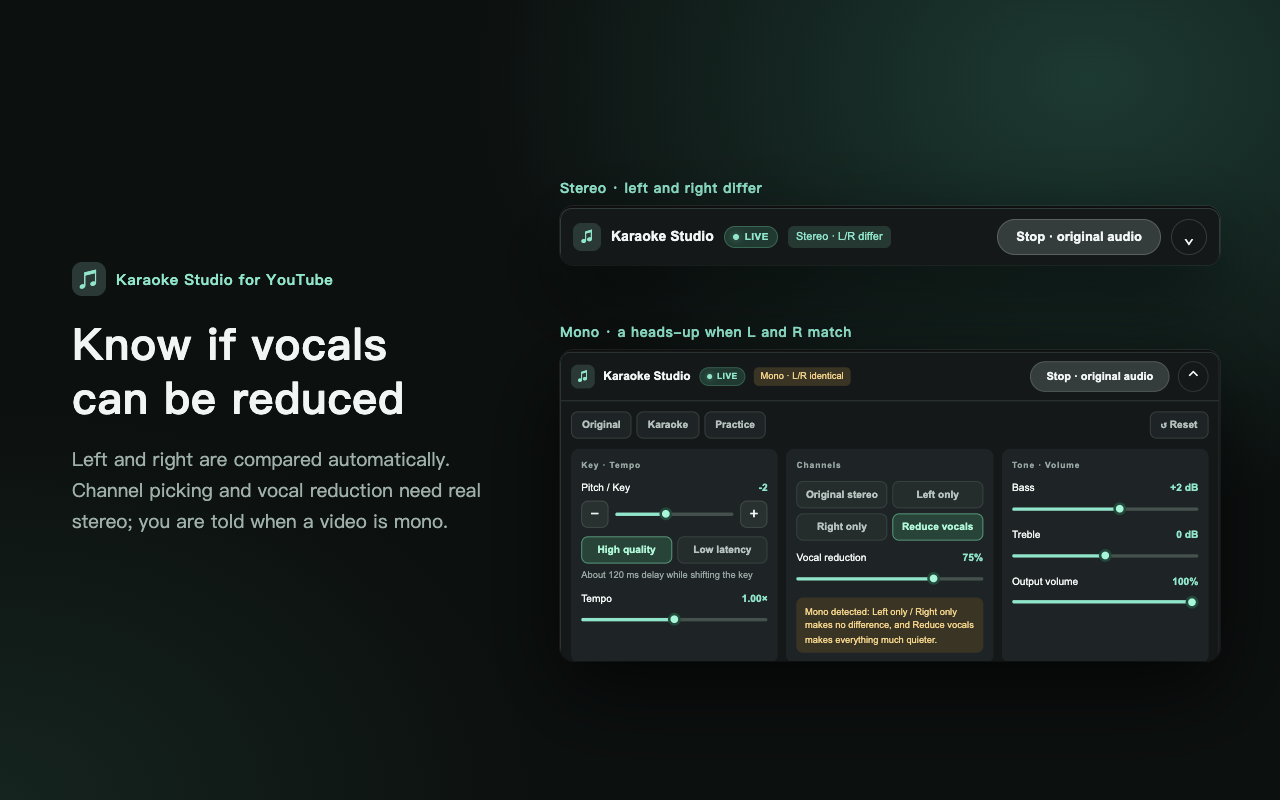
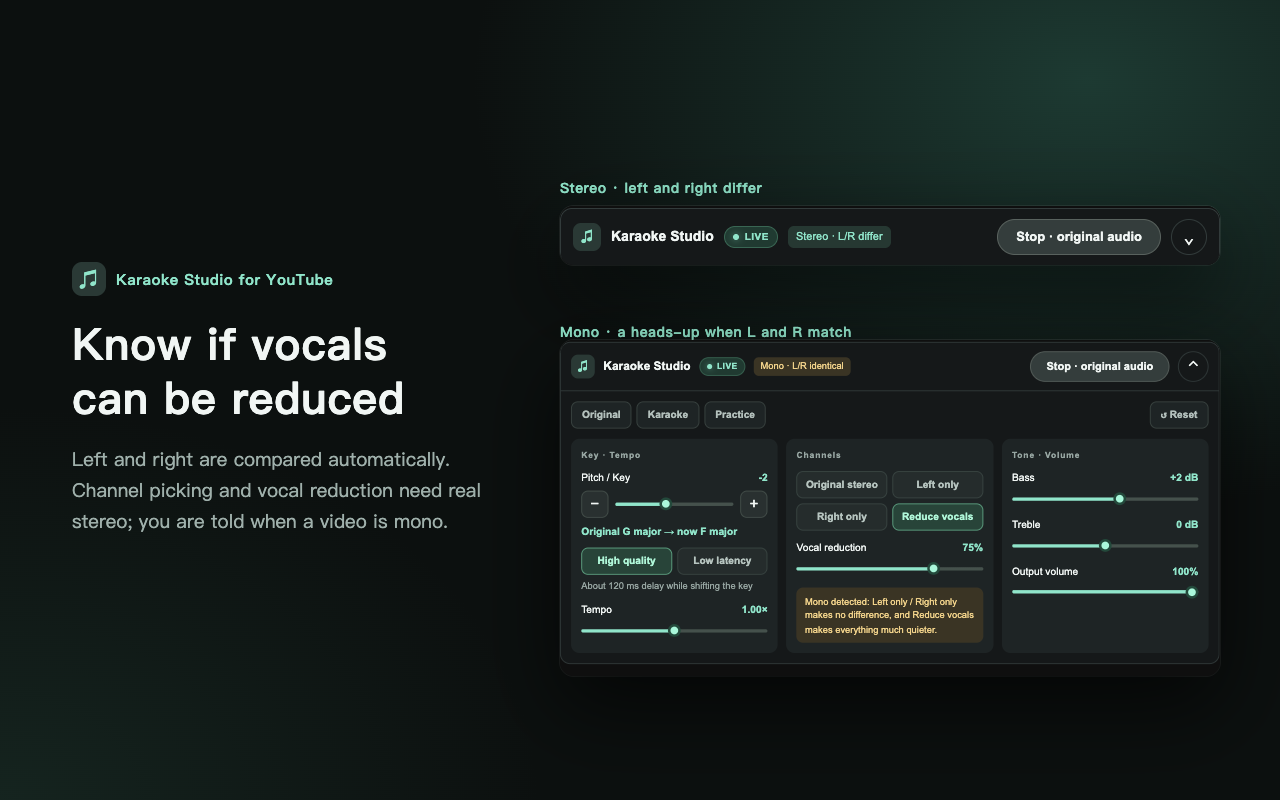
Show the detected song key next to the pitch shift
The key is estimated from the unshifted source with a decaying pitch-class
profile matched against Krumhansl-Kessler major/minor templates; the shifted
key is derived from it, so it follows the pitch control instantly. The
semitone number stays; the key line sits under it in the popup and panel.

diff --git a/extension/offscreen.js b/extension/offscreen.js
@@ -6,6 +6,7 @@ async function stopSession() {
   const old = session;
   session = null;
   clearInterval(old.channelTimer);
+  clearInterval(old.keyTimer);
   try { old.stream.getTracks().forEach(t => t.stop()); } catch {}
   try { await old.context.close(); } catch {}
 }
@@ -131,6 +132,86 @@ function monitorChannels(s) {
   }, 250);
 }
 
+// Krumhansl-Kessler key profiles for C major and C minor; other tonics are rotations.
+const KEY_PROFILES = {
+  major: [6.35, 2.23, 3.48, 2.33, 4.38, 4.09, 2.52, 5.19, 2.39, 3.66, 2.29, 2.88],
+  minor: [6.33, 2.68, 3.52, 5.38, 2.60, 3.53, 2.54, 4.75, 3.98, 2.69, 3.34, 3.17]
+};
+// Below 80 Hz a 16384-point FFT cannot separate semitones; above 2 kHz harmonics dominate.
+const KEY_RANGE = { low: 80, high: 2000 };
+const KEY_POLL_MS = 500;
+const KEY_DECAY = 0.5 ** (KEY_POLL_MS / 30000); // older audio fades with a 30 s half-life
+const KEY_MIN_FRAMES = 20;  // ~10 s of sound before the first answer
+const KEY_STABLE_FRAMES = 4; // a new answer must hold for ~2 s
+
+/** Add one dB spectrum frame to a 12-bin pitch-class profile; returns the energy added. */
+function addChroma(chroma, db, sampleRate, fftSize) {
+  const hz = sampleRate / fftSize;
+  let added = 0;
+  const last = Math.min(db.length - 1, Math.floor(KEY_RANGE.high / hz));
+  for (let bin = Math.ceil(KEY_RANGE.low / hz); bin <= last; bin++) {
+    const amplitude = 10 ** (db[bin] / 20);
+    if (!(amplitude > 1e-4)) continue; // below -80 dB, or -Infinity before audio arrives
+    const midi = Math.round(69 + 12 * Math.log2(bin * hz / 440));
+    chroma[((midi % 12) + 12) % 12] += amplitude;
+    added += amplitude;
+  }
+  return added;
+}
+
+function correlation(a, b) {
+  const n = a.length;
+  const ma = a.reduce((x, y) => x + y, 0) / n;
+  const mb = b.reduce((x, y) => x + y, 0) / n;
+  let ab = 0, aa = 0, bb = 0;
+  for (let i = 0; i < n; i++) {
+    ab += (a[i] - ma) * (b[i] - mb);
+    aa += (a[i] - ma) ** 2;
+    bb += (b[i] - mb) ** 2;
+  }
+  return ab / Math.sqrt(aa * bb);
+}
+
+/** Best-matching key as { tonic: 0-11 (C = 0), mode }, or null when there is no sound. */
+function classifyKey(chroma) {
+  if (!chroma.some(v => v > 0)) return null;
+  let best = null;
+  for (const [mode, profile] of Object.entries(KEY_PROFILES)) {
+    for (let tonic = 0; tonic < 12; tonic++) {
+      const score = correlation(Array.from(chroma), profile.map((_, i) => profile[(i - tonic + 12) % 12]));
+      if (!best || score > best.score) best = { tonic, mode, score };
+    }
+  }
+  return { tonic: best.tonic, mode: best.mode };
+}
+
+// Estimate the song's key from the unprocessed source; shifted keys are derived from it.
+function monitorKey(s) {
+  const analyser = s.context.createAnalyser();
+  analyser.fftSize = 16384;
+  analyser.smoothingTimeConstant = 0;
+  s.input.connect(analyser);
+  const db = new Float32Array(analyser.frequencyBinCount);
+  const chroma = new Float64Array(12);
+  let frames = 0, candidate = null, streak = 0;
+  s.key = null;
+  s.keyTimer = setInterval(() => {
+    analyser.getFloatFrequencyData(db);
+    for (let i = 0; i < 12; i++) chroma[i] *= KEY_DECAY;
+    if (addChroma(chroma, db, s.context.sampleRate, analyser.fftSize) > 0) frames++;
+    if (frames < KEY_MIN_FRAMES) return;
+    const key = classifyKey(chroma);
+    if (!key) return;
+    const same = candidate && key.tonic === candidate.tonic && key.mode === candidate.mode;
+    candidate = key;
+    streak = same ? streak + 1 : 1;
+    if (streak < KEY_STABLE_FRAMES || session !== s) return;
+    if (s.key && s.key.tonic === key.tonic && s.key.mode === key.mode) return;
+    s.key = key;
+    chrome.runtime.sendMessage({ target: 'background', type: 'KEY_INFO', tabId: s.tabId, key }).catch(() => {});
+  }, KEY_POLL_MS);
+}
+
 function applySettings(s, settings) {
   s.settings = settings;
   const t = s.context.currentTime;
@@ -200,7 +281,8 @@ async function startSession(message) {
     await context.resume();
     // Detection is informational; never let it take the audio path down.
     try { monitorChannels(next); } catch (error) { console.error('Channel detection unavailable', error); }
-    return { active: true, tabId: next.tabId, layout: next.layout };
+    try { monitorKey(next); } catch (error) { console.error('Key detection unavailable', error); }
+    return { active: true, tabId: next.tabId, layout: next.layout, key: next.key };
   } catch (error) {
     if (stream) stream.getTracks().forEach(t => t.stop());
     if (context && context.state !== 'closed') await context.close();
@@ -214,7 +296,7 @@ chrome.runtime.onMessage.addListener((message, sender, sendResponse) => {
   if (sender.tab || sender.url !== chrome.runtime.getURL('background.js')) return false;
   (async () => {
     switch (message.type) {
-      case 'STATUS': return session ? { active: true, tabId: session.tabId, layout: session.layout } : { active: false };
+      case 'STATUS': return session ? { active: true, tabId: session.tabId, layout: session.layout, key: session.key } : { active: false };
       case 'STOP': await stopSession(); return { active: false };
       case 'START': return startSession(message);
       case 'UPDATE':

diff --git a/test-key.js b/test-key.js
@@ -1,0 +1,71 @@
+/** Musical key detection and labelling checks, runnable with `node test-key.js`. */
+const assert = require('node:assert/strict');
+const vm = require('node:vm');
+const fs = require('node:fs');
+const path = require('node:path');
+const extension = path.join(__dirname, 'extension');
+
+const sandbox = { chrome: { runtime: { onMessage: { addListener() {} } } }, navigator: {}, AudioContext: function () {}, setInterval, clearInterval };
+vm.createContext(sandbox);
+vm.runInContext(fs.readFileSync(path.join(extension, 'offscreen.js'), 'utf8') +
+  '\nglobalThis.api = { classifyKey, addChroma };', sandbox);
+const { classifyKey, addChroma } = sandbox.api;
+
+const SR = 48000, FFT = 16384;
+const NOTE = { C: 0, 'C#': 1, D: 2, Eb: 3, E: 4, F: 5, 'F#': 6, G: 7, Ab: 8, A: 9, Bb: 10, B: 11 };
+const midiHz = m => 440 * 2 ** ((m - 69) / 12);
+// A dB spectrum (like AnalyserNode.getFloatFrequencyData) of tones with harmonics 1-5 at 1/n level.
+function spectrum(midiNotes) {
+  const db = new Float32Array(FFT / 2).fill(-120);
+  for (const m of midiNotes) {
+    for (let n = 1; n <= 5; n++) {
+      const bin = Math.round(midiHz(m) * n * FFT / SR);
+      if (bin < db.length) db[bin] = Math.max(db[bin], 20 * Math.log10(0.5 / n));
+    }
+  }
+  return db;
+}
+// Chords (MIDI notes) of a progression, played in equal measure.
+const triad = (root, minor = false) => [root, root + (minor ? 3 : 4), root + 7];
+function chromaOf(progression) {
+  const chroma = new Float64Array(12);
+  for (const chord of progression) addChroma(chroma, spectrum(chord), SR, FFT);
+  return chroma;
+}
+const keyOf = progression => { const k = classifyKey(chromaOf(progression)); return k && `${k.tonic}:${k.mode}`; };
+
+// I-V-vi-IV in G major, with the bass note an octave down.
+const G = 55;
+const gMajor = [triad(G), triad(G + 7 - 12), triad(G + 9 - 12, true), triad(G + 5)].map(c => [...c, c[0] - 12]);
+assert.equal(keyOf(gMajor), `${NOTE.G}:major`, 'I-V-vi-IV in G is G major');
+// The same progression moved to D and E-flat.
+for (const name of ['D', 'Eb']) {
+  const shifted = gMajor.map(c => c.map(m => m + NOTE[name] - NOTE.G));
+  assert.equal(keyOf(shifted), `${NOTE[name]}:major`, `transposed progression is ${name} major`);
+}
+// i-iv-V-i in A minor (harmonic minor: E major chord with G#).
+const A = 57;
+const aMinor = [triad(A, true), triad(A + 5, true), triad(A + 7 - 12), triad(A, true)].map(c => [...c, c[0] - 12]);
+assert.equal(keyOf(aMinor), `${NOTE.A}:minor`, 'i-iv-V-i in A is A minor');
+// Silence gives no answer instead of a guess.
+assert.equal(classifyKey(new Float64Array(12)), null, 'no key without sound');
+// Frames that are silent add nothing.
+const quiet = new Float64Array(12);
+addChroma(quiet, new Float32Array(FFT / 2).fill(-120), SR, FFT);
+assert.ok(quiet.every(v => v === 0), 'a silent frame adds no chroma');
+
+// Labels: the shifted key is the original key plus the pitch shift.
+const shared = { chrome: { i18n: {
+  getUILanguage: () => 'en',
+  getMessage: (key, subs) => ({ keyMajor: `${subs[0]} major`, keyMinor: `${subs[0]} minor` })[key] || key
+} } };
+vm.createContext(shared);
+vm.runInContext(fs.readFileSync(path.join(extension, 'shared.js'), 'utf8') + '\nglobalThis.keyName = keyName;', shared);
+const { keyName } = shared;
+assert.equal(keyName({ tonic: NOTE.G, mode: 'major' }, 0), 'G major');
+assert.equal(keyName({ tonic: NOTE.G, mode: 'major' }, 2), 'A major', 'G major +2 is A major');
+assert.equal(keyName({ tonic: NOTE.C, mode: 'major' }, -1), 'B major', 'shifts wrap around the octave');
+assert.equal(keyName({ tonic: NOTE.D, mode: 'major' }, -1), 'D♭ major', 'major keys use conventional flats');
+assert.equal(keyName({ tonic: NOTE.E, mode: 'minor' }, -3), 'C♯ minor', 'minor keys use conventional sharps');
+assert.equal(keyName({ tonic: NOTE.A, mode: 'minor' }, 12), 'A minor', 'an octave shift keeps the key');
+console.log('PASS: key from chord spectra (major, minor, transposed), silence, shifted key names');

diff --git a/extension/panel.js b/extension/panel.js
@@ -8,6 +8,7 @@
   let live = false;       // this tab is being processed
   let elsewhere = false;  // another tab is being processed
   let layout = null;
+  let key = null;         // { tonic, mode } of the unshifted source, null while detecting
   let shortcut = '';
   let collapsed = false;
   let enabled = false;    // opt-in from the popup ("panelEnabled")
@@ -59,10 +60,10 @@
       await command('UPDATE', { settings });
       if (live) {
         await command('STOP');
-        live = false; layout = null;
+        live = false; layout = null; key = null;
       } else {
         const result = await command('START');
-        live = true; elsewhere = false; layout = result.layout || 'detecting';
+        live = true; elsewhere = false; layout = result.layout || 'detecting'; key = result.key ?? null;
       }
       notice = null;
     } catch (e) {
@@ -84,6 +85,7 @@
       if (live) { unlocked = true; mount(); }
       elsewhere = result.active && !result.here;
       layout = result.here ? result.layout : null;
+      key = result.here ? result.key ?? null : null;
       shortcut = result.shortcut;
       if (Date.now() - lastLocalEdit > 500) settings = result.settings;
       redraw();
@@ -100,6 +102,7 @@
       pitch.input,
       h('button', { type: 'button', class: 'step', 'aria-label': t('pitchUp'),
         onclick: () => change({ pitch: Math.min(12, settings.pitch + 1) }) }, '+')));
+    pitch.field.append(ui.keyInfo = h('p', { class: 'key-info', title: t('keyHint'), hidden: '' }));
     pitch.field.append(h('div', { class: 'modes engines', role: 'radiogroup', 'aria-label': t('pitchEngine') },
       ...Object.entries(ENGINES).map(([engine, { label }]) => {
         const input = h('input', { type: 'radio', name: 'ks-engine', value: engine,
@@ -178,6 +181,8 @@
     for (const input of ui.modes) input.checked = input.value === settings.channelMode;
     for (const input of ui.engines) input.checked = input.value === settings.pitchEngine;
     ui.engineHint.textContent = ENGINES[settings.pitchEngine]?.hint || '';
+    ui.keyInfo.textContent = keyText(live, key, settings.pitch);
+    ui.keyInfo.hidden = !ui.keyInfo.textContent;
     const center = settings.channelMode === 'center';
     ui.vocal.input.disabled = !center;
     ui.vocal.field.classList.toggle('disabled', !center);
@@ -271,6 +276,7 @@
     .mode:has(input:focus-visible) { outline: 2px solid var(--mint); outline-offset: 2px; }
     .engines { margin-top: 10px; }
     .hint { margin: 6px 0 0; font-size: 11px; color: var(--muted); }
+    .key-info { margin: 8px 0 0; font-size: 12px; font-weight: 600; color: var(--mint); cursor: help; }
     .warning { margin: 0; font-size: 11px; line-height: 1.5; color: #f3d48b; background: #3a3424; border-radius: 8px; padding: 8px 10px; }
     input[type=range] { appearance: none; -webkit-appearance: none; display: block; width: 100%; height: 20px;
       margin: 0; background: transparent; cursor: pointer; }
@@ -301,8 +307,10 @@
       live = message.active;
       if (live) { elsewhere = false; unlocked = true; mount(); }
       layout = live ? message.layout || layout : null;
+      if (!live) key = null;
       if (!message.error) notice = null;
     }
+    if ('key' in message) key = message.key;
     if (message.error) notice = { text: message.error, error: true };
     redraw();
     return false;

diff --git a/extension/popup.js b/extension/popup.js
@@ -1,6 +1,7 @@
 let settings = { ...PRESETS.original };
 let currentTab = null;
 let activeTabId = null;
+let detectedKey = null; // { tonic, mode } of the unshifted source, null while detecting
 let busy = false;
 let timer = null;
 const $ = id => document.getElementById(id);
@@ -42,6 +43,13 @@ function redraw() {
     b.classList.toggle('active', preset.channelMode === settings.channelMode &&
       KEYS.every(k => Number(preset[k]) === Number(settings[k])));
   }
+  drawKey();
+}
+
+function drawKey() {
+  const text = keyText(activeTabId !== null && activeTabId === currentTab?.id, detectedKey, settings.pitch);
+  $('keyInfo').textContent = text;
+  $('keyInfo').hidden = !text;
 }
 
 function redrawStatus() {
@@ -54,6 +62,7 @@ function redrawStatus() {
   if (runningHere) showNotice(t('noticeLive'));
   else if (activeTabId) showNotice(t('noticeElsewhere'));
   else showNotice(t('noticeIdle'));
+  drawKey();
 }
 
 function change(partial) {
@@ -77,6 +86,7 @@ async function initialize() {
     const result = await command('STATUS');
     settings = result.settings;
     activeTabId = result.active ? result.tabId : null;
+    detectedKey = result.key ?? null;
     const { panelEnabled } = await chrome.storage.local.get('panelEnabled');
     $('panelEnabled').checked = !!panelEnabled;
     redraw();
@@ -126,14 +136,23 @@ $('toggle').addEventListener('click', async () => {
     if (activeTabId === currentTab?.id) {
       await command('STOP');
       activeTabId = null;
+      detectedKey = null;
     } else {
       const result = await command('START', { tabId: currentTab?.id });
       activeTabId = result.tabId;
+      detectedKey = result.key ?? null;
     }
     redrawStatus();
   } catch (error) {
     showNotice(error.message, true);
   } finally { busy = false; $('toggle').disabled = false; }
 });
+chrome.runtime.onMessage.addListener((message, sender) => {
+  if (message?.target !== 'popup' || message.type !== 'KEY_INFO') return false;
+  if (sender.url !== chrome.runtime.getURL('background.js')) return false;
+  if (message.tabId === activeTabId) { detectedKey = message.key; drawKey(); }
+  return false;
+});
+$('keyInfo').title = t('keyHint');
 localize();
 initialize();

diff --git a/extension/shared.js b/extension/shared.js
@@ -22,6 +22,25 @@ const ENGINES = {
   quality: { label: t('engineQuality'), hint: t('engineQualityHint') },
   fast: { label: t('engineFast'), hint: t('engineFastHint') }
 };
+// Conventional key-signature spelling for each tonic (C = 0).
+const KEY_SPELLING = {
+  major: ['C', 'D♭', 'D', 'E♭', 'E', 'F', 'F♯', 'G', 'A♭', 'A', 'B♭', 'B'],
+  minor: ['C', 'C♯', 'D', 'E♭', 'E', 'F', 'F♯', 'G', 'G♯', 'A', 'B♭', 'B']
+};
+
+/** Name of a detected key after shifting it by some semitones, e.g. "A major". */
+function keyName(key, shift = 0) {
+  const note = KEY_SPELLING[key.mode][(((key.tonic + shift) % 12) + 12) % 12];
+  return key.mode === 'major' ? t('keyMajor', note) : t('keyMinor', note);
+}
+
+/** Key line under the pitch control: '' when idle, detecting, or original → shifted. */
+function keyText(live, key, shift) {
+  if (!live) return '';
+  if (!key) return t('keyDetecting');
+  return shift % 12 ? t('keyShifted', keyName(key), keyName(key, shift)) : t('keyOriginal', keyName(key));
+}
+
 const MODE_LABELS = { stereo: t('modeStereo'), left: t('modeLeft'), right: t('modeRight'), center: t('modeCenter') };
 
 async function command(type, extras = {}) {

diff --git a/extension/background.js b/extension/background.js
@@ -150,7 +150,7 @@ chrome.runtime.onInstalled.addListener(async () => {
 const ALLOWED_SENDERS = {
   STATUS: ['popup', 'content'], START: ['popup', 'content'], STOP: ['popup', 'content'],
   UPDATE: ['popup', 'content'], RESET: ['popup', 'content'],
-  CONTENT_READY: ['content'], ENGINE_ENDED: ['offscreen'], CHANNEL_INFO: ['offscreen']
+  CONTENT_READY: ['content'], ENGINE_ENDED: ['offscreen'], CHANNEL_INFO: ['offscreen'], KEY_INFO: ['offscreen']
 };
 
 function senderKind(sender) {
@@ -203,6 +203,12 @@ chrome.runtime.onMessage.addListener((message, sender, sendResponse) => {
       }
       case 'CHANNEL_INFO': {
         notifyPanel(message.tabId, { active: true, layout: message.layout });
+        return {};
+      }
+      case 'KEY_INFO': {
+        notifyPanel(message.tabId, { active: true, key: message.key });
+        // An open popup listens too; with none open there is no receiver.
+        chrome.runtime.sendMessage({ target: 'popup', type: 'KEY_INFO', tabId: message.tabId, key: message.key }).catch(() => {});
         return {};
       }
       default: throw new Error('Unknown command');

diff --git a/test-background.js b/test-background.js
@@ -149,6 +149,15 @@ const contentScript = { id: 'abc', url: youtubeTab.url, tab: youtubeTab };
     assert.equal(bg.panelStates(3).at(-1).layout, 'mono', 'channel layout is forwarded to the panel');
   }
   {
+    const bg = loadBackground();
+    const key = { tonic: 7, mode: 'major' };
+    await bg.send({ type: 'KEY_INFO', tabId: 3, key }, contentScript);
+    assert.deepEqual(bg.panelStates(3), [], 'only the offscreen engine may report the key');
+    await bg.send({ type: 'KEY_INFO', tabId: 3, key }, offscreenPage);
+    assert.deepEqual(bg.panelStates(3).at(-1).key, key, 'the detected key is forwarded to the panel');
+    assert.ok(bg.calls.offscreen.includes('KEY_INFO'), 'and broadcast to an open popup');
+  }
+  {
     const bg = loadBackground({ tabs: { 3: youtubeTab } });
     await bg.listeners.command('toggle-processing', youtubeTab);
     assert.deepEqual(bg.calls.streamIds, [3], 'the shortcut starts capture of the current tab');

diff --git a/extension/popup.html b/extension/popup.html
@@ -39,6 +39,7 @@
         <button class="step" id="pitchUp" type="button" data-i18n-aria="pitchUp">+</button>
       </div>
       <div class="ends"><span>−12</span><span>0</span><span>+12</span></div>
+      <p class="key-info" id="keyInfo" hidden></p>
       <div class="engine-options" role="radiogroup" data-i18n-aria="pitchEngine">
         <label class="channel-option"><input type="radio" name="pitchEngine" value="quality" /><span data-i18n="engineQuality"></span></label>
         <label class="channel-option"><input type="radio" name="pitchEngine" value="fast" /><span data-i18n="engineFast"></span></label>

diff --git a/extension/popup.css b/extension/popup.css
@@ -78,3 +78,4 @@ footer button {border:1px solid #3d4843;border-radius:7px;color:#c3d4cd;backgrou
 .engine-options {display:grid;grid-template-columns:1fr 1fr;gap:8px;margin-top:12px}
 .engine-options .channel-option {min-height:33px}
 .engine-hint {margin-top:6px;font-size:10px;color:#7e9189}
+.key-info {margin:8px 0 0;font-size:12px;font-weight:650;color:var(--mint);cursor:help}
